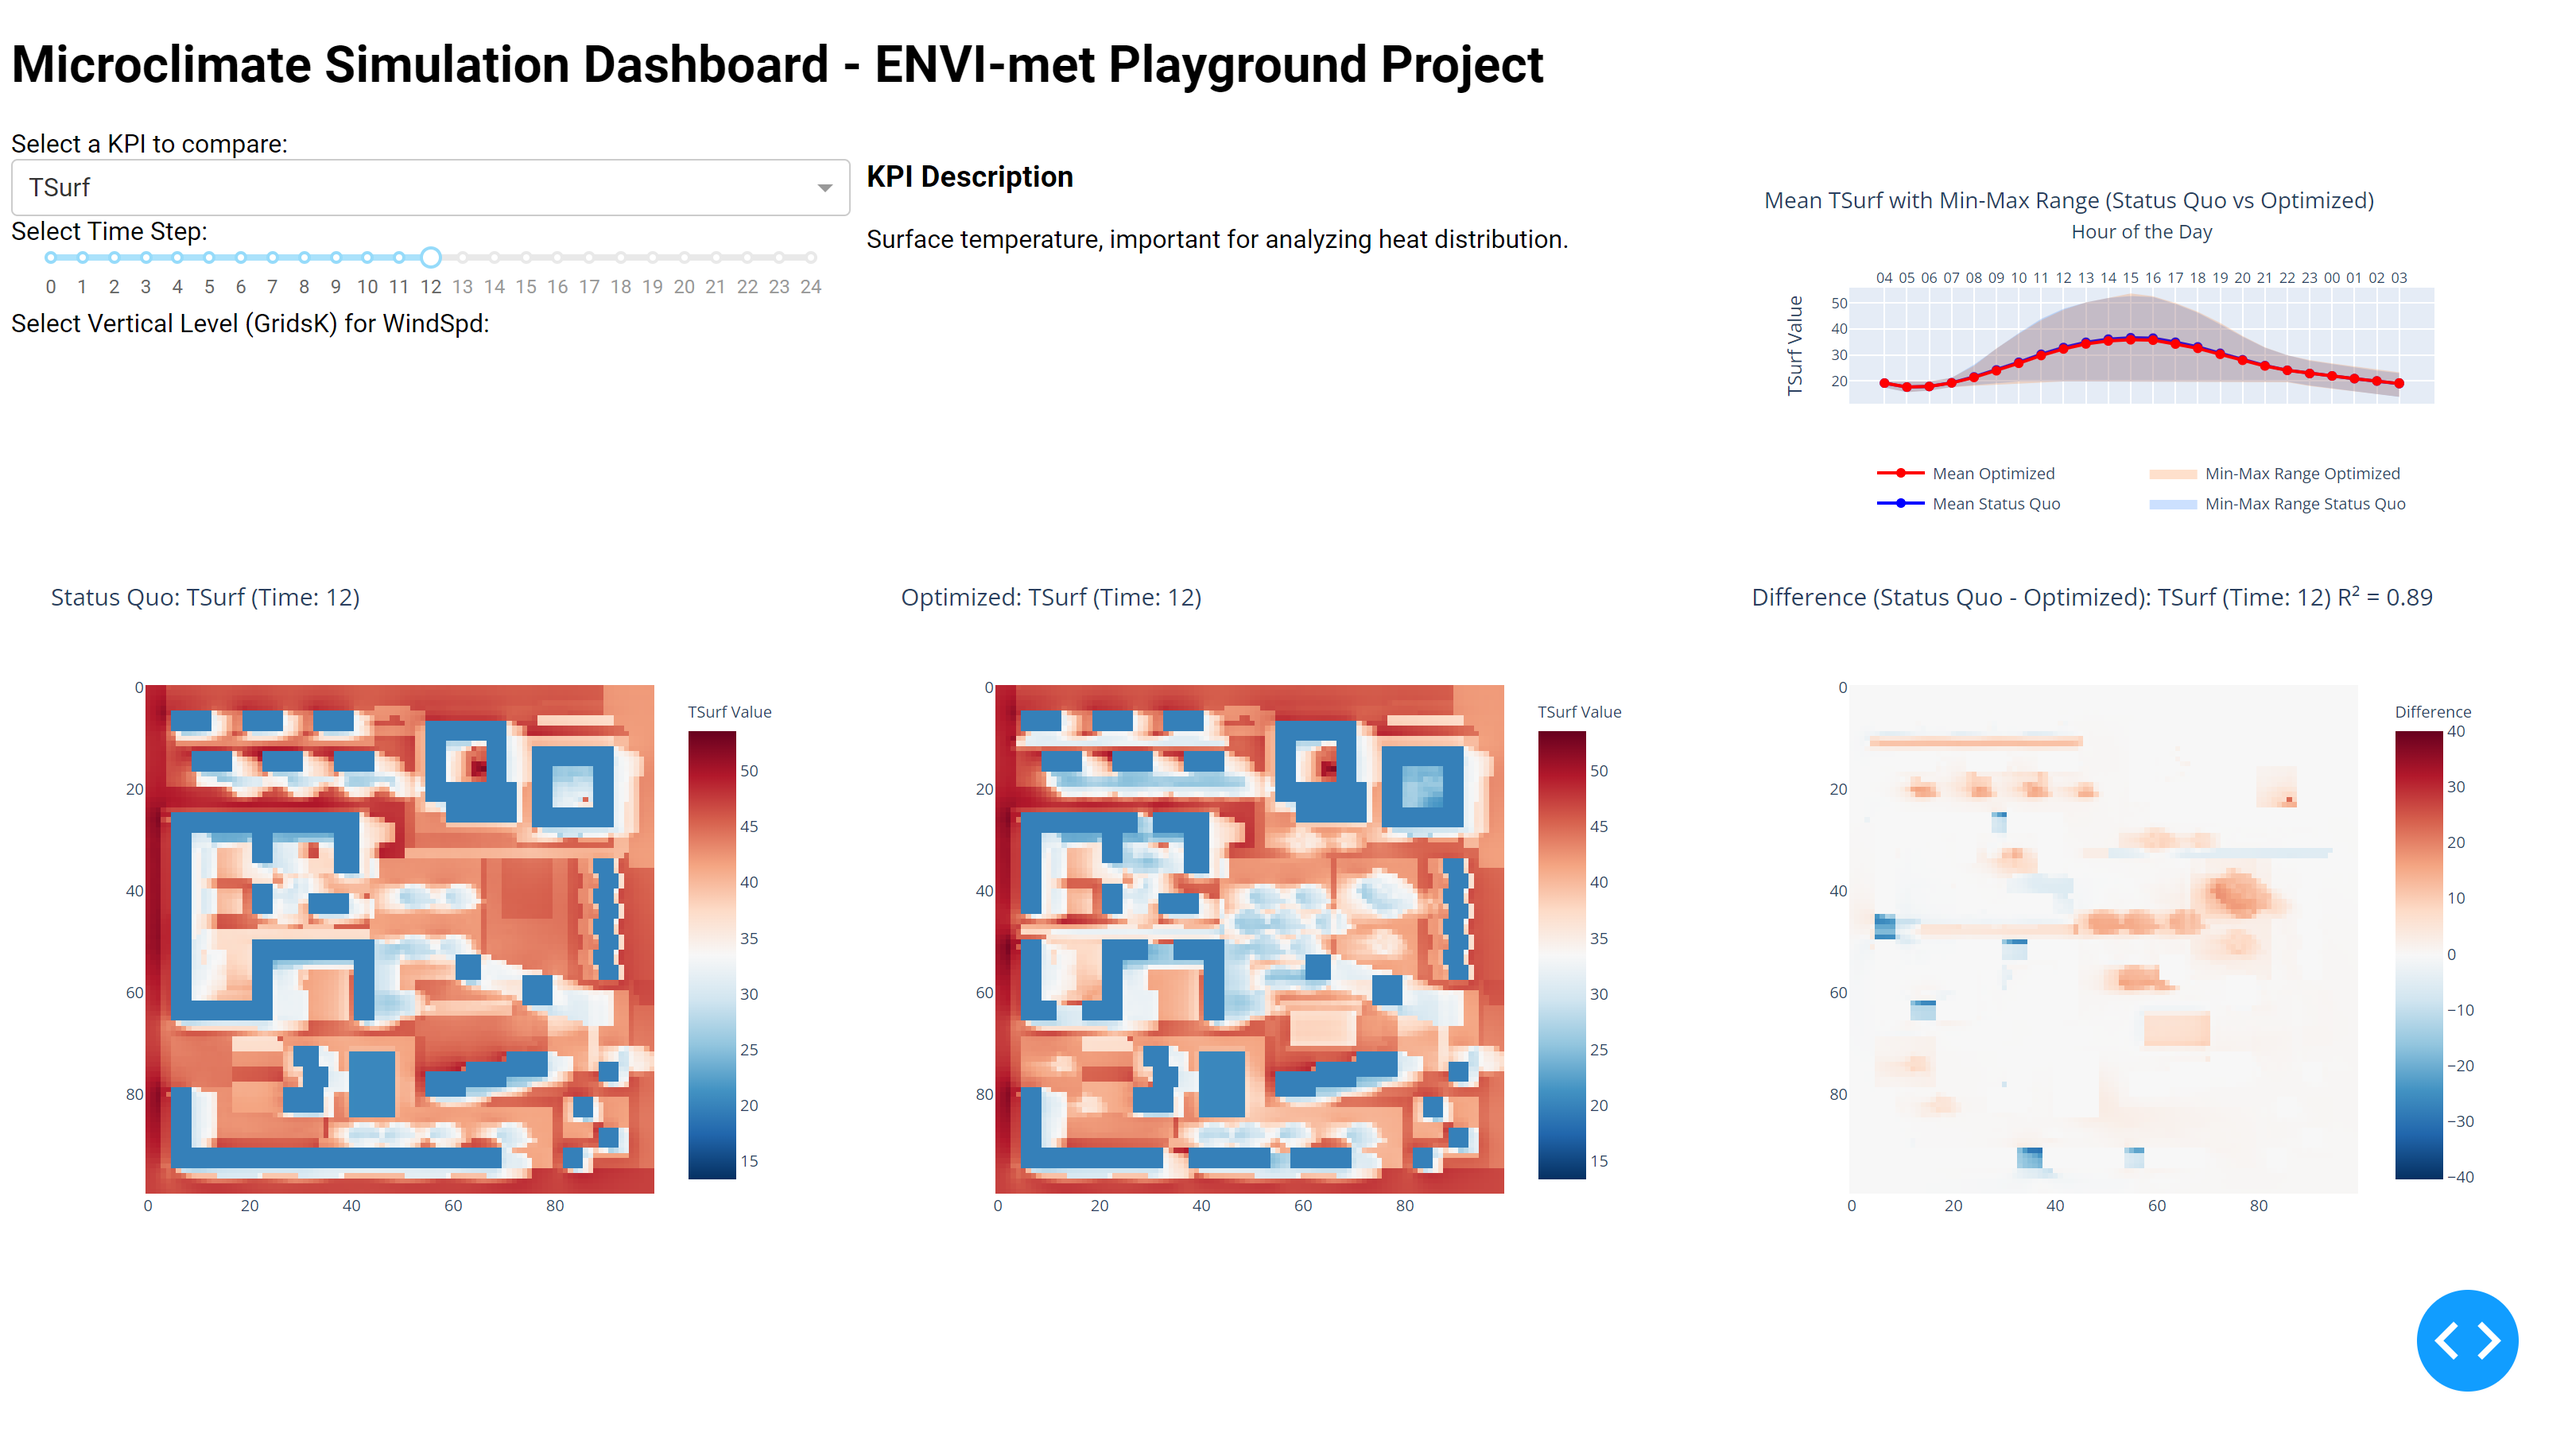
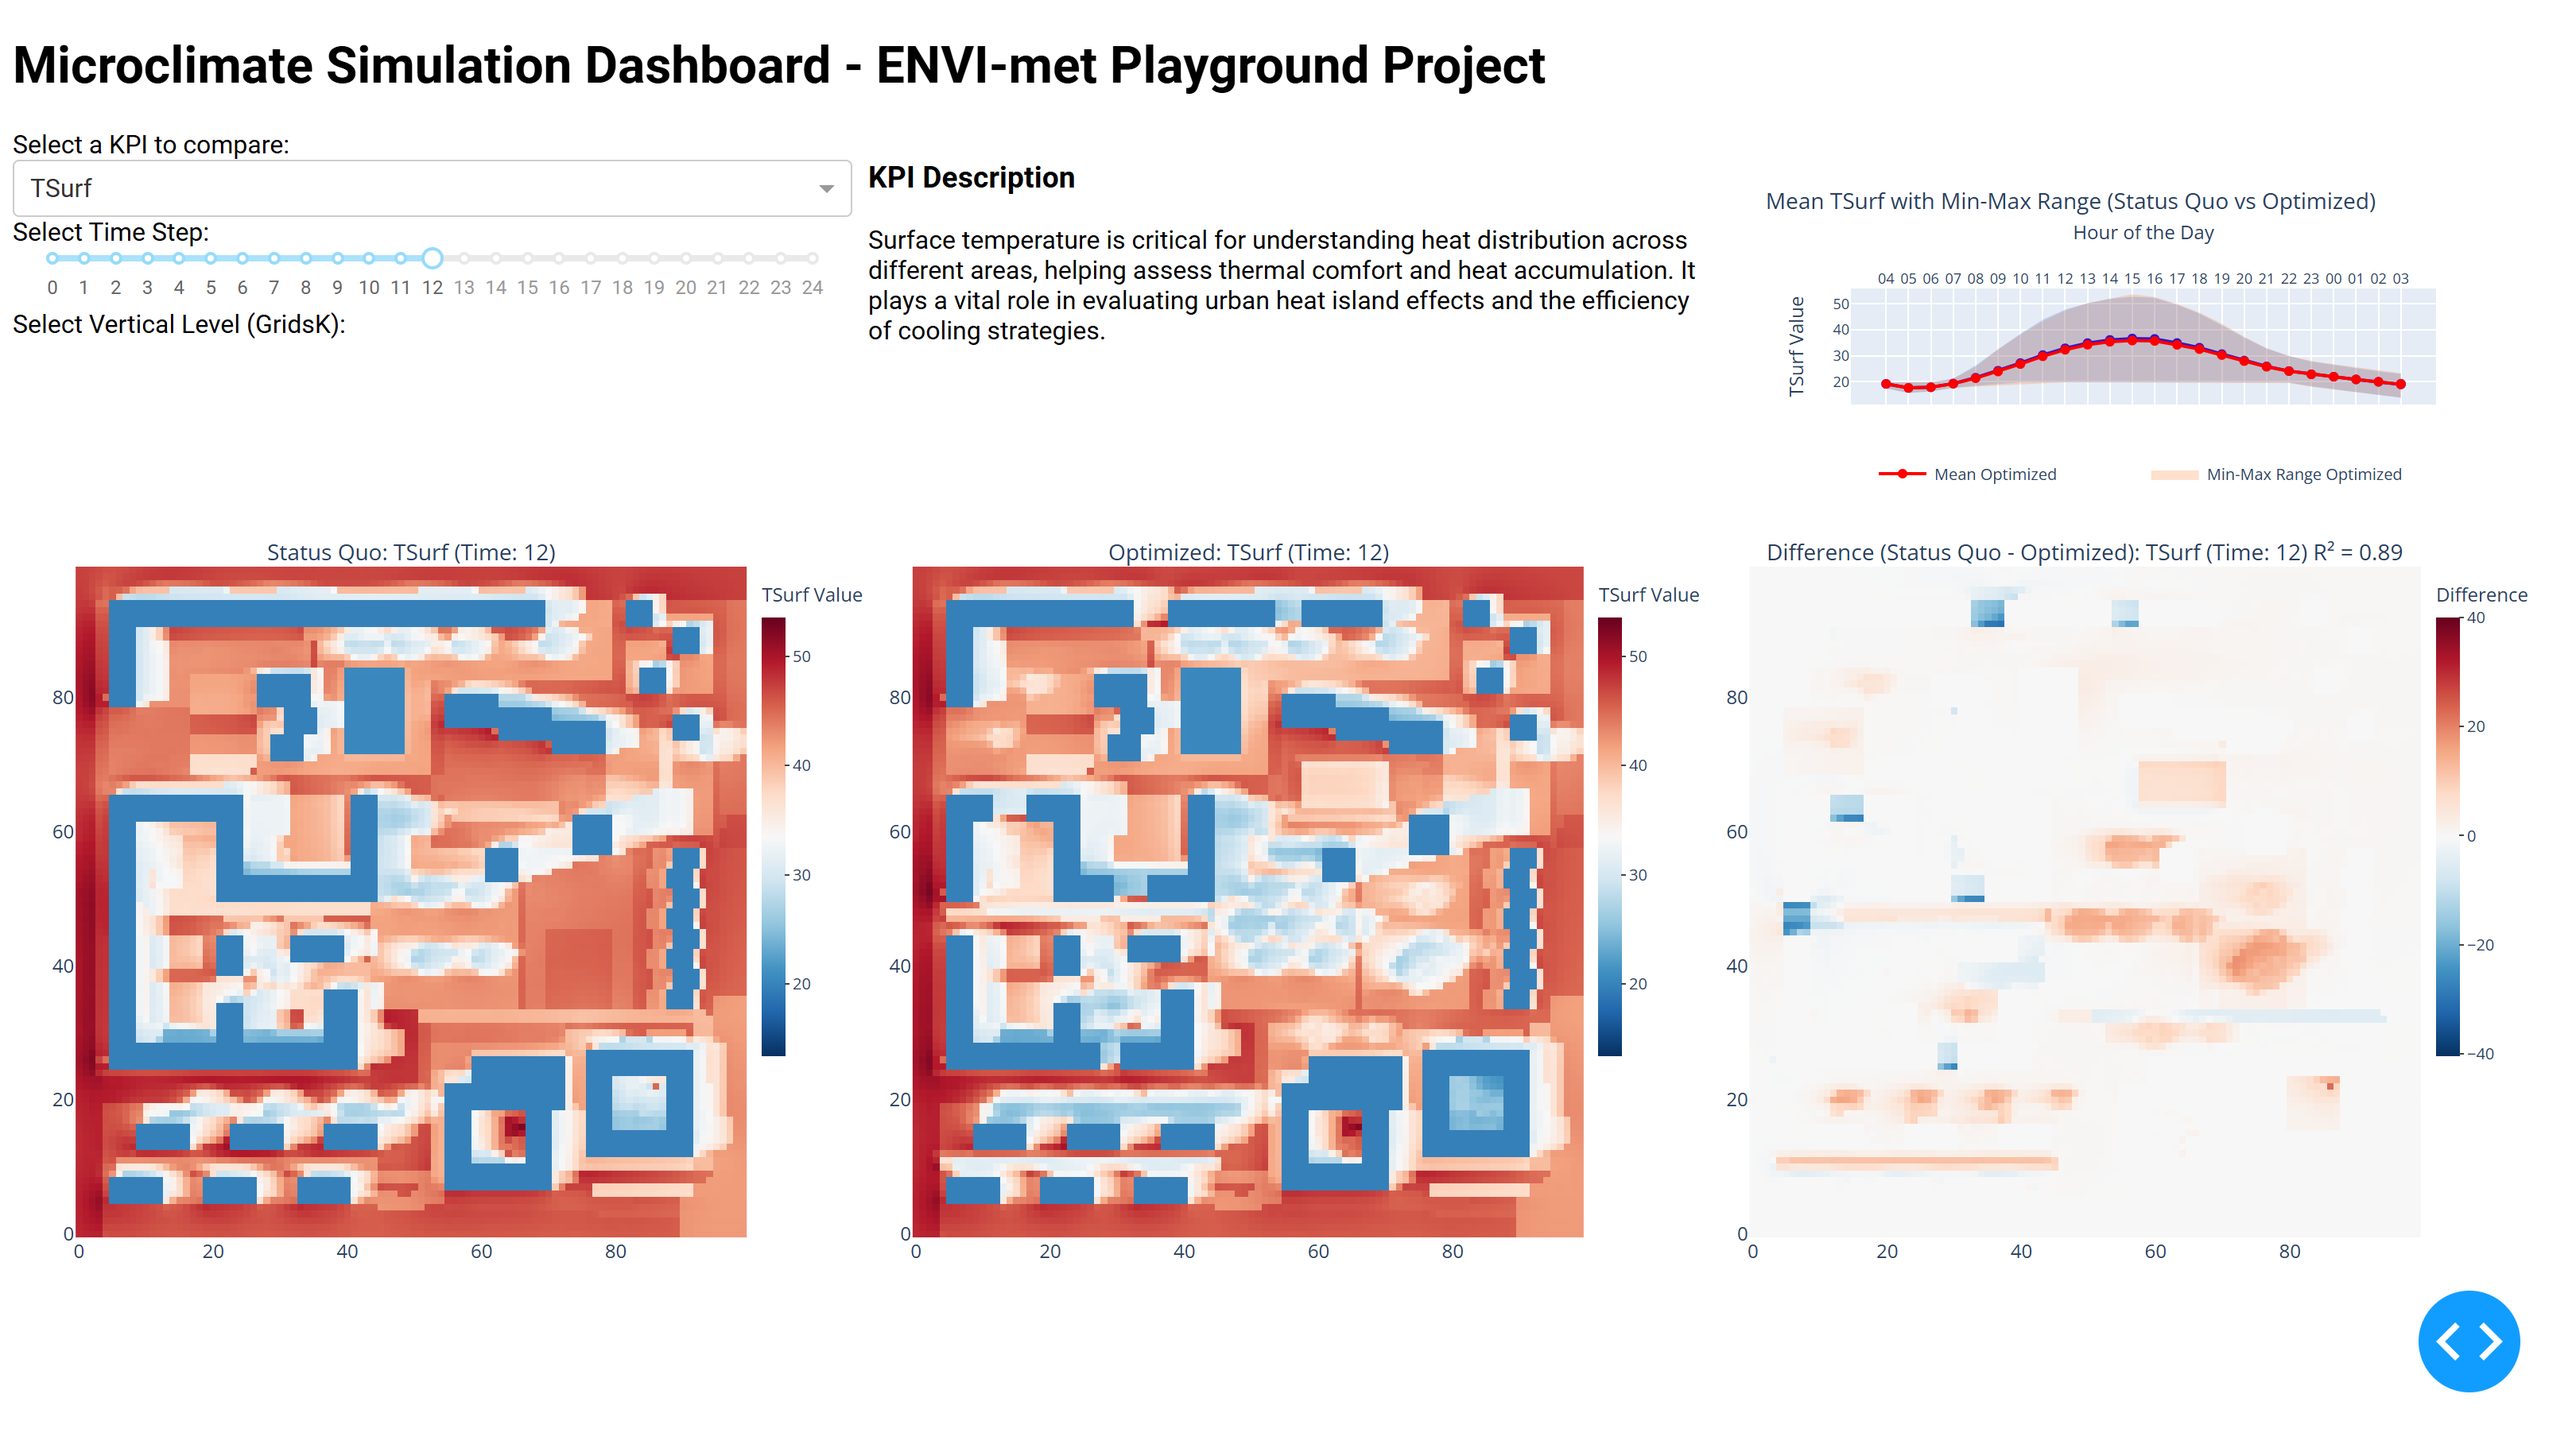
Adjusted the heatmap layout

diff --git a/src/assets/custom.css b/src/assets/custom.css
@@ -14,3 +14,13 @@ h1,
 h5 {
   font-family: "Roboto", sans-serif;
 }
+
+/* In your custom.css file html,
+.app-container, body,*/
+
+.row,
+.column,
+.container {
+  margin: 0;
+  padding: 0;
+}

diff --git a/src/app.py b/src/app.py
@@ -100,19 +100,23 @@ app.layout = html.Div([
             html.P(id='kpi-description', style={'white-space': 'pre-wrap'})
         ], style={'width': '33%', 'margin-left': '10px'}),  # 1/3 width for description
 
-        # Hourly plot placed in the top-right corner with reduced height
+        # Hourly plot placed in the top-right corner
         html.Div([
-            dcc.Graph(id='hourly-plot', style={'width': '100%', 'height': '250px'})  # Adjusted height here
+            dcc.Graph(id='hourly-plot', style={'width': '100%', 'height': '225px'})
         ], style={'width': '33%', 'margin-left': '10px'})  # 1/3 width for hourly plot
     ], style={'display': 'flex', 'flex-direction': 'row'}),  # Flexbox for layout
 
-    # Row for heatmaps (moved down)
     # Row for heatmaps
     html.Div([
-        dcc.Graph(id='heatmap-graphs', style={'width': '100%', 'height': '55vh'})
-    ])
+    dcc.Graph(
+        id='heatmap-graphs',
+        style={'width': '100%', 'height': '55vh', 'padding': '0', 'margin': '0'},
+        config={'responsive': True}
+    )
+    ], style={'padding': '0', 'margin': '0'})
 
 ])
+
 
 @app.callback(
     [Output('heatmap-graphs', 'figure'),
@@ -175,9 +179,6 @@ def update_graphs(selected_kpi, selected_time, selected_level):
     difference_data = statusquo_data - optimized_data
     color_scale = 'RdBu_r'
 
-    # Define a fixed size for the heatmaps
-    heatmap_size = 500  # Square size for height and width
-
     # Create the subplots figure
     fig = make_subplots(
         rows=1, cols=3,
@@ -188,7 +189,8 @@ def update_graphs(selected_kpi, selected_time, selected_level):
         ),
         shared_xaxes=True,
         shared_yaxes=True,
-        horizontal_spacing=0.02
+        horizontal_spacing=0.05,
+        column_widths=[0.3333, 0.3333, 0.3334]  # Equal widths
     )
 
     # Prepare data
@@ -198,12 +200,14 @@ def update_graphs(selected_kpi, selected_time, selected_level):
     # Common colorbar properties
     colorbar_common = dict(
         thickness=15,
-        len=1.0,
-        y=0.5,
-        yanchor='middle',
+        len=0.75,        # Length of the colorbar (adjust as needed)
+        y=1.0,          # Position at the top
+        yanchor='top',  # Anchor the colorbar's top to y
         ticks='outside',
-        ticklen=3
+        ticklen=3,
+        tickfont=dict(size=10)
     )
+
 
     # Add Status Quo heatmap
     fig.add_trace(
@@ -215,8 +219,7 @@ def update_graphs(selected_kpi, selected_time, selected_level):
             zmin=global_min,
             zmax=global_max,
             colorbar=dict(
-                title=f"{selected_kpi} Value",
-                x=0.28  # Position colorbar inside the subplot
+                title=f"{selected_kpi} Value"
             ) | colorbar_common,
             showscale=True
         ),
@@ -233,8 +236,7 @@ def update_graphs(selected_kpi, selected_time, selected_level):
             zmin=global_min,
             zmax=global_max,
             colorbar=dict(
-                title=f"{selected_kpi} Value",
-                x=0.62
+                title=f"{selected_kpi} Value"
             ) | colorbar_common,
             showscale=True
         ),
@@ -251,45 +253,61 @@ def update_graphs(selected_kpi, selected_time, selected_level):
             zmin=-abs(global_max - global_min),
             zmax=abs(global_max - global_min),
             colorbar=dict(
-                title="Difference",
-                x=0.96
+                title="Difference"
             ) | colorbar_common,
             showscale=True
         ),
         row=1, col=3
     )
 
+    # Retrieve x-axis domains
+    x_domain1 = fig.layout.xaxis.domain
+    x_domain2 = fig.layout.xaxis2.domain
+    x_domain3 = fig.layout.xaxis3.domain
+
+    # Define a small offset for colorbars
+    colorbar_offset = -0.01  # Adjust as needed
+
+    # Set colorbar positions
+    fig.data[0].colorbar.x = x_domain1[1] + colorbar_offset
+    fig.data[1].colorbar.x = x_domain2[1] + colorbar_offset
+    fig.data[2].colorbar.x = x_domain3[1] + colorbar_offset
+
+    # Adjust subplot titles
+    fig.layout.annotations = [
+        dict(
+            text=title['text'],
+            x=(domain[0] + domain[1]) / 2,
+            y=1.05,
+            xref='paper',
+            yref='paper',
+            showarrow=False,
+            font=dict(size=14),
+            xanchor='center',
+            yanchor='top'
+        )
+        for title, domain in zip(
+            fig.layout.annotations,
+            [x_domain1, x_domain2, x_domain3]
+        )
+    ]
+
     # Update the layout
     fig.update_layout(
-        height=500,
-        width=1500,
-        margin=dict(l=50, r=50, t=100, b=50),
-        # Uniform font size for titles
-        font=dict(size=12),
-        # Adjust subplot titles
-        annotations=[
-            dict(
-                text=title['text'],
-                x=title['x'],
-                y=1.0,
-                xref='paper',
-                yref='paper',
-                showarrow=False,
-                font=dict(size=14),
-                xanchor='center'
-            ) for title in fig.layout.annotations
-        ]
+        autosize=True,
+        margin=dict(l=25, r=25, t=50, b=25),
+        font=dict(size=12)
     )
 
-    # Update axes to have the same scale and hide tick labels
+    # Update axes
     fig.update_xaxes(
-        showticklabels=False,
+        showticklabels=True,
         scaleanchor='y',
         scaleratio=1,
         constrain='domain'
     )
     fig.update_yaxes(
-        showticklabels=False,
+        showticklabels=True,
         constrain='domain'
     )
 
